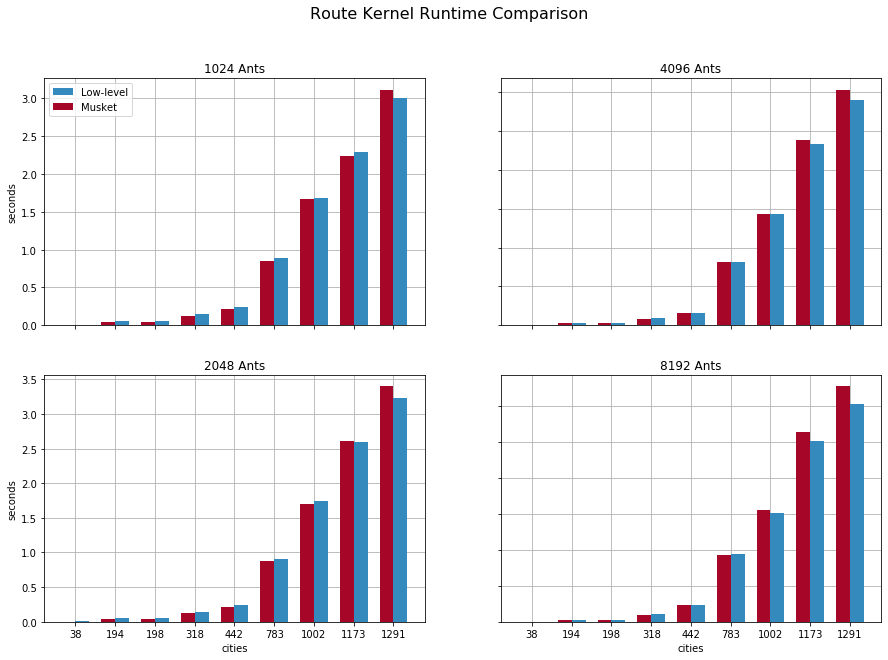
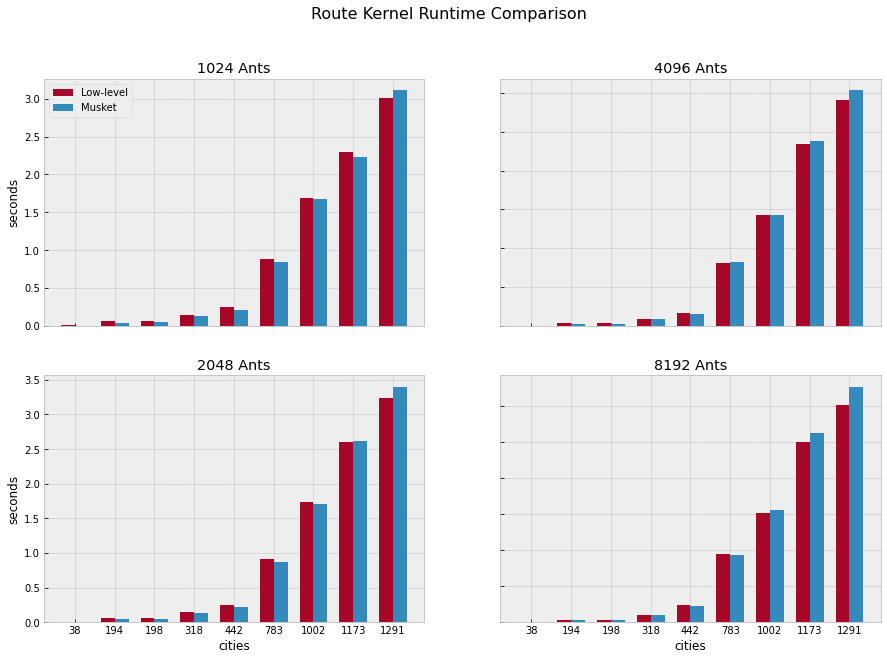
Uniform graphs

diff --git a/plot_scripts/graph_completeruntime_comparison.py b/plot_scripts/graph_completeruntime_comparison.py
@@ -26,25 +26,21 @@ Breno2048 = breno_data.iloc[2].astype(float)[:-1]
 Breno4096 = breno_data.iloc[3].astype(float)[:-1]
 Breno8192 = breno_data.iloc[4].astype(float)[:-1]
 
-BrenoBars_1024 = axes[0, 0].bar(ind+width, Breno1024, width, bottom=0, color = '#348ABD')
-BrenoBars_2048 = axes[1, 0].bar(ind+width, Breno2048, width, bottom=0, color = '#348ABD')
-BrenoBars_4096 = axes[0, 1].bar(ind+width, Breno4096, width, bottom=0, color = '#348ABD')
-BrenoBars_8192 = axes[1, 1].bar(ind+width, Breno8192, width, bottom=0, color = '#348ABD')
+BrenoBars_1024 = axes[0, 0].bar(ind, Breno1024, width, bottom=0, color = '#A60628')
+BrenoBars_2048 = axes[1, 0].bar(ind, Breno2048, width, bottom=0, color = '#A60628')
+BrenoBars_4096 = axes[0, 1].bar(ind, Breno4096, width, bottom=0, color = '#A60628')
+BrenoBars_8192 = axes[1, 1].bar(ind, Breno8192, width, bottom=0, color = '#A60628')
 
-MusketBars_1024 = axes[0, 0].bar(ind, Musket1024, width,  bottom=0, color = '#A60628')
-MusketBars_2048 = axes[1, 0].bar(ind, Musket2048, width,  bottom=0, color = '#A60628')
-MusketBars_4096 = axes[0, 1].bar(ind, Musket4096, width,  bottom=0, color = '#A60628')
-MusketBars_8192 = axes[1, 1].bar(ind, Musket8192, width,  bottom=0, color = '#A60628')
+MusketBars_1024 = axes[0, 0].bar(ind+width, Musket1024, width,  bottom=0, color = '#348ABD')
+MusketBars_2048 = axes[1, 0].bar(ind+width, Musket2048, width,  bottom=0, color = '#348ABD')
+MusketBars_4096 = axes[0, 1].bar(ind+width, Musket4096, width,  bottom=0, color = '#348ABD')
+MusketBars_8192 = axes[1, 1].bar(ind+width, Musket8192, width,  bottom=0, color = '#348ABD')
 
 axes[0, 0].set_axisbelow(True)
 axes[1, 0].set_axisbelow(True)
 axes[0, 1].set_axisbelow(True)
 axes[1, 1].set_axisbelow(True)
 
-axes[0, 0].grid()
-axes[1, 0].grid()
-axes[0, 1].grid()
-axes[1, 1].grid()
                       
 axes[0, 0].set_title('1024 Ants')
 axes[1, 0].set_title('2048 Ants')

diff --git a/plot_scripts/graph_route_kernelcompleteruntime_comparison.py b/plot_scripts/graph_route_kernelcompleteruntime_comparison.py
@@ -28,25 +28,21 @@ Breno2048 = breno_data.iloc[2].astype(float)[:-1]
 Breno4096 = breno_data.iloc[3].astype(float)[:-1]
 Breno8192 = breno_data.iloc[4].astype(float)[:-1]
 
-BrenoBars_1024 = axes[0, 0].bar(ind+width, Breno1024, width, bottom=0, color = '#348ABD')
-BrenoBars_2048 = axes[1, 0].bar(ind+width, Breno2048, width, bottom=0, color = '#348ABD')
-BrenoBars_4096 = axes[0, 1].bar(ind+width, Breno4096, width, bottom=0, color = '#348ABD')
-BrenoBars_8192 = axes[1, 1].bar(ind+width, Breno8192, width, bottom=0, color = '#348ABD')
+BrenoBars_1024 = axes[0, 0].bar(ind, Breno1024, width, bottom=0, color = '#A60628')
+BrenoBars_2048 = axes[1, 0].bar(ind, Breno2048, width, bottom=0, color = '#A60628')
+BrenoBars_4096 = axes[0, 1].bar(ind, Breno4096, width, bottom=0, color = '#A60628')
+BrenoBars_8192 = axes[1, 1].bar(ind, Breno8192, width, bottom=0, color = '#A60628')
 
-MusketBars_1024 = axes[0, 0].bar(ind, Musket1024, width,  bottom=0, color = '#A60628')
-MusketBars_2048 = axes[1, 0].bar(ind, Musket2048, width,  bottom=0, color = '#A60628')
-MusketBars_4096 = axes[0, 1].bar(ind, Musket4096, width,  bottom=0, color = '#A60628')
-MusketBars_8192 = axes[1, 1].bar(ind, Musket8192, width,  bottom=0, color = '#A60628')
+MusketBars_1024 = axes[0, 0].bar(ind+width, Musket1024, width,  bottom=0, color =  '#348ABD')
+MusketBars_2048 = axes[1, 0].bar(ind+width, Musket2048, width,  bottom=0, color =  '#348ABD')
+MusketBars_4096 = axes[0, 1].bar(ind+width, Musket4096, width,  bottom=0, color =  '#348ABD')
+MusketBars_8192 = axes[1, 1].bar(ind+width, Musket8192, width,  bottom=0, color =  '#348ABD')
 
 axes[0, 0].set_axisbelow(True)
 axes[1, 0].set_axisbelow(True)
 axes[0, 1].set_axisbelow(True)
 axes[1, 1].set_axisbelow(True)
 
-axes[0, 0].grid()
-axes[1, 0].grid()
-axes[0, 1].grid()
-axes[1, 1].grid()
 
 axes[0, 0].set_title('1024 Ants')
 axes[1, 0].set_title('2048 Ants')

diff --git a/plot_scripts/bar_graph_bigproblem_runtime_comparison.py b/plot_scripts/bar_graph_bigproblem_runtime_comparison.py
@@ -41,9 +41,11 @@ fig, ax = plt.subplots()
 ax.set_axisbelow(True)
 ax.grid()
 
+plt.figure(figsize=(9, 3))
+
 # Create blue bars
-plt.bar(r1, bars1, width = barWidth, color = '#A60628', edgecolor = 'black', capsize=7, label='Musket')
-plt.bar(r2, bars2, width = barWidth, color = '#348ABD', edgecolor = 'black', capsize=7, label='Low-level')
+plt.bar(r1, bars2, width = barWidth, color = '#A60628', edgecolor = 'black', capsize=7, label='Low-level')
+plt.bar(r2, bars1, width = barWidth, color = '#348ABD', edgecolor = 'black', capsize=7, label='Musket')
 
 # general layout
 plt.xticks([r + barWidth/2 for r in range(len(bars1))], ['1024', '2048', '4096', '8192'])

diff --git a/plot_scripts/bar_graph_big_problem_routekernel_runtime_comparison.py b/plot_scripts/bar_graph_big_problem_routekernel_runtime_comparison.py
@@ -44,8 +44,8 @@ r2 = [x + barWidth for x in r1]
 plt.figure(figsize=(9, 3))
 
 # Create blue bars
-plt.bar(r1, bars1, width = barWidth, color = '#A60628', edgecolor = 'black', capsize=7, label='Musket')
-plt.bar(r2, bars2, width = barWidth, color = '#348ABD', edgecolor = 'black', capsize=7, label='Low-level')
+plt.bar(r2, bars1, width = barWidth, color = '#348ABD', edgecolor = 'black', capsize=7, label='Musket')
+plt.bar(r1, bars2, width = barWidth, color = '#A60628', edgecolor = 'black', capsize=7, label='Low-level')
 
 # general layout
 plt.xticks([r + barWidth/2 for r in range(len(bars1))], ['1024', '2048', '4096', '8192'])

diff --git a/plot_scripts/bpp_graph_packing_kernelcompleteruntime_comparison.py b/plot_scripts/bpp_graph_packing_kernelcompleteruntime_comparison.py
@@ -52,7 +52,7 @@ r2 = [x + barWidth for x in r1]
 plt.figure(figsize=(9, 3))
 
 # Create blue bars
-plt.bar(r1, lowlevelAverage, width = barWidth, color = '#A60628', edgecolor = 'black', capsize=7, label='Low-Level')
+plt.bar(r1, lowlevelAverage, width = barWidth, color = '#A60628', edgecolor = 'black', capsize=7, label='Low-level')
 plt.bar(r2, MusketAverage, width = barWidth, color = '#348ABD', edgecolor = 'black', capsize=7, label='Musket')
 
 # general layout
